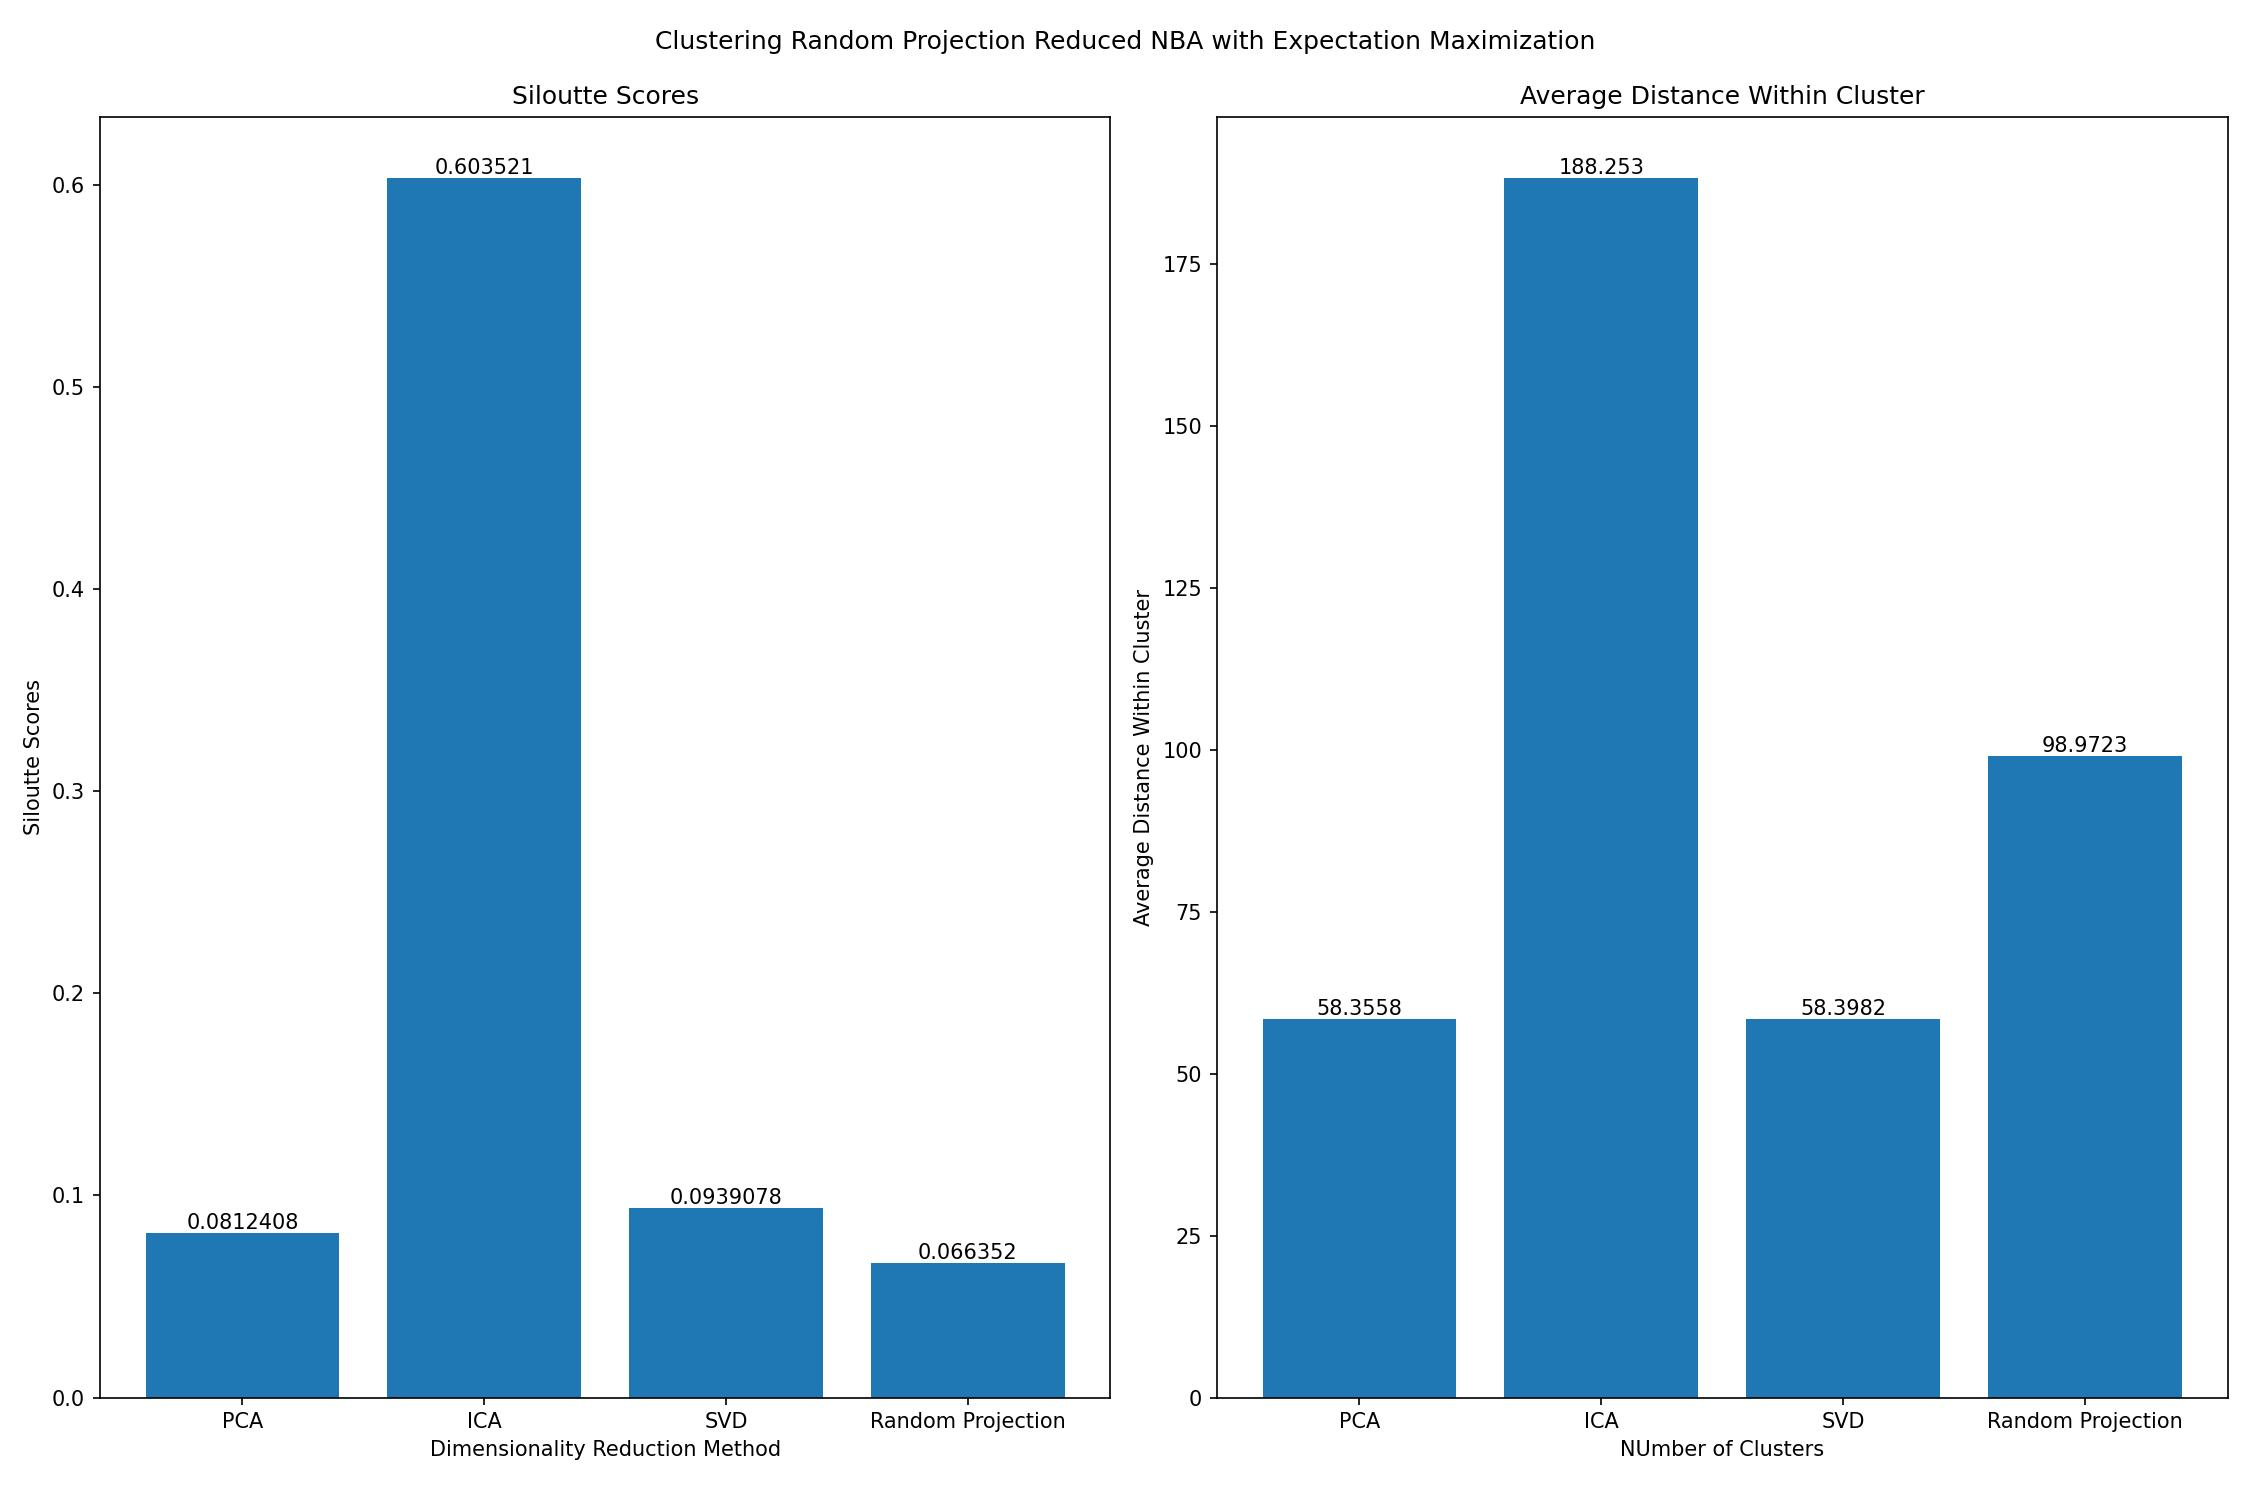
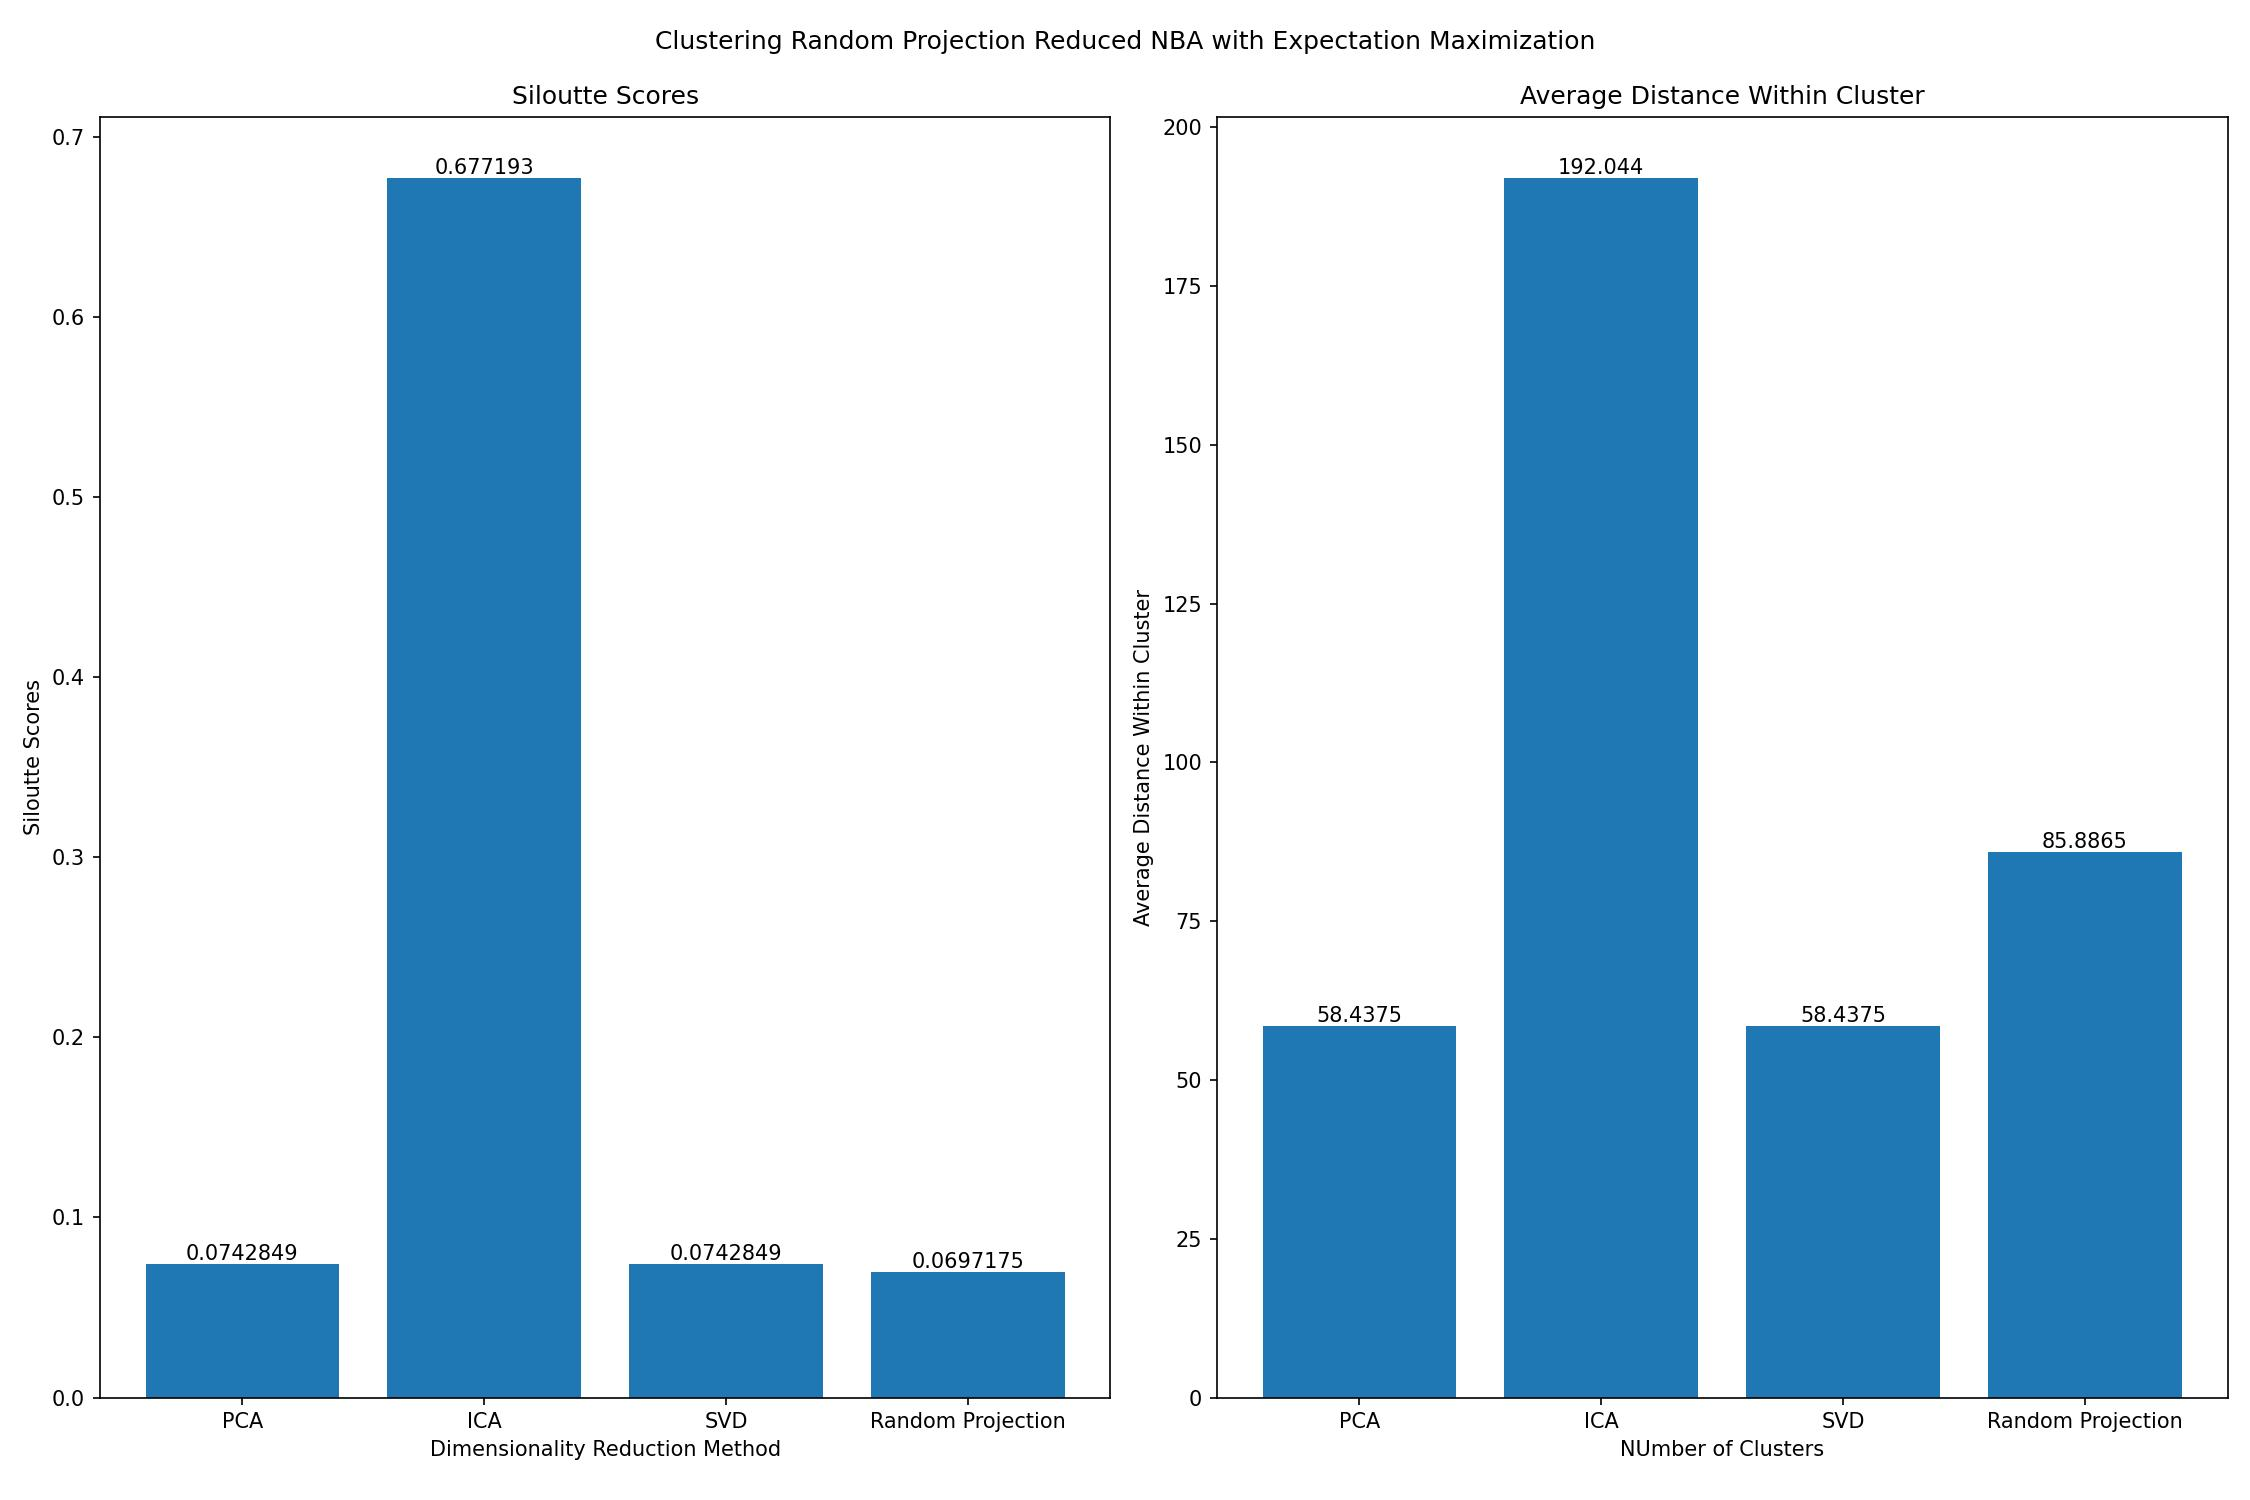
update

diff --git a/unsupervised_learning/src/main.py b/unsupervised_learning/src/main.py
@@ -110,41 +110,48 @@ def all_analysis(dataset_name):
 
     # perform clustering again on the reduced dataset
     cluster_data_map = defaultdict(lambda: defaultdict(lambda: dict))
-    optimal_num_clusters = {"K-means": 8, "Expectation Maximization": 10}
+    optimal_num_clusters = (
+        {"K-means": 5, "Expectation Maximization": 10}
+        if dataset_name == "NBA"
+        else {"K-means": 8, "Expectation Maximization": 10}
+    )
 
     for cluster_model_name in CLUSTERING_MODEL_NAMES:
         metrics_list = []
         for dim_reduction_model_name, reduced_data in reduced_data_map.items():
-            print(
-                f"Clustering {dataset_name} Dataset with {dim_reduction_model_name} Using {cluster_model_name}"
-            )
-            clustered_data, metrics = CLUSTERING_MODEL_MAPPING[cluster_model_name](
-                reduced_data, optimal_num_clusters[cluster_model_name]
-            )
-            cluster_data_map[cluster_model_name][
-                dim_reduction_model_name
-            ] = clustered_data
-            print(
-                f"""
-                Metrics for Clustering {dataset_name} Dataset with {dim_reduction_model_name} Using {cluster_model_name}:
-                {metrics}
-                """
-            )
-            metrics_list.append({"model_name": dim_reduction_model_name, **metrics})
-        dim_reduced_metrics_plot(
-            pd.DataFrame(metrics_list),
-            cluster_model_name,
-            dim_reduction_model_name,
-            dataset_name,
-        )
-        plt.tight_layout(rect=[0, 0.01, 1, 0.99])
-        plt.savefig(
-            f"./reports/figures/{cluster_model_name}_{dataset_name}_metrics.jpg",
-            dpi=150,
-        )
+            try:
+                print(
+                    f"Clustering {dataset_name} Dataset with {dim_reduction_model_name} Using {cluster_model_name}"
+                )
+                clustered_data, metrics = CLUSTERING_MODEL_MAPPING[cluster_model_name](
+                    reduced_data, optimal_num_clusters[cluster_model_name]
+                )
+                cluster_data_map[cluster_model_name][
+                    dim_reduction_model_name
+                ] = clustered_data
+                print(
+                    f"""
+                    Metrics for Clustering {dataset_name} Dataset with {dim_reduction_model_name} Using {cluster_model_name}:
+                    {metrics}
+                    """
+                )
+                metrics_list.append({"model_name": dim_reduction_model_name, **metrics})
+                dim_reduced_metrics_plot(
+                    pd.DataFrame(metrics_list),
+                    cluster_model_name,
+                    dim_reduction_model_name,
+                    dataset_name,
+                )
+                plt.tight_layout(rect=[0, 0.01, 1, 0.99])
+                plt.savefig(
+                    f"./reports/figures/{cluster_model_name}_{dataset_name}_metrics.jpg",
+                    dpi=150,
+                )
+            except Exception:  # pylint: disable=broad-except
+                pass
 
     # run neural network with dimension reduced features on NBA dataset only
-    if dataset_name == "NBA2":
+    if dataset_name == "NBA":
         _, axes = plt.subplots(4, 4, figsize=(20, 20))
         for i, (dim_reduction_model_name, reduced_data) in enumerate(
             reduced_data_map.items()
@@ -177,7 +184,7 @@ def all_analysis(dataset_name):
             for i, (dim_reduction_model_name, reduced_data) in enumerate(
                 reduced_data_map.items()
             ):
-                neural_network = MLPClassifier(hidden_layer_sizes=(32,))
+                neural_network = MLPClassifier(hidden_layer_sizes=(32,), max_iter=5000)
                 cv = ShuffleSplit(n_splits=5, test_size=0.1, random_state=RANDOM_SEED)
                 # plot learning curves cluster on the corresponding axes
                 plot_learning_curve(
@@ -232,5 +239,5 @@ if __name__ == "__main__":
         "NBA": preprocess_nba_players_data,
         "Twitter": preprocess_tweets,
     }
-    # all_analysis("NBA")
+    all_analysis("NBA")
     all_analysis("Twitter")

diff --git a/unsupervised_learning/src/models/clustering.py b/unsupervised_learning/src/models/clustering.py
@@ -1,7 +1,7 @@
 from sklearn import metrics
 from sklearn.cluster import KMeans
 from sklearn.mixture import GaussianMixture
-from src.config.config import NUM_CLUSTERS_LIST
+from src.config.config import NUM_CLUSTERS_LIST, RANDOM_SEED
 
 
 def k_means_clustering_experiment(data):
@@ -12,7 +12,11 @@ def k_means_clustering_experiment(data):
 
     for num_clusters in NUM_CLUSTERS_LIST:
         # fit the k means clustering
-        clf = KMeans(n_clusters=num_clusters, init="k-means++")
+        clf = KMeans(
+            n_clusters=num_clusters,
+            init="k-means++",
+            random_state=RANDOM_SEED,
+        )
         clf.fit(data)
         predicted_label = clf.predict(data)
 
@@ -38,7 +42,10 @@ def expectation_maximization_experiment(data):
     for num_clusters in NUM_CLUSTERS_LIST:
         # fit the gaussian mixture clustering
         clf = GaussianMixture(
-            n_components=num_clusters, covariance_type="spherical", init_params="kmeans"
+            n_components=num_clusters,
+            covariance_type="spherical",
+            init_params="kmeans",
+            random_state=RANDOM_SEED,
         )
         clf.fit(data)
         predicted_label = clf.predict(data)
@@ -61,7 +68,7 @@ def k_means_clustering(data, num_clusters):
     K means clustering and returned the original dataset
     with the clustering label given the number of clusters
     """
-    clf = KMeans(n_clusters=num_clusters, init="k-means++")
+    clf = KMeans(n_clusters=num_clusters, init="k-means++", random_state=RANDOM_SEED)
     clf.fit(data)
     predicted_label = clf.predict(data)
     # get metrics
@@ -81,7 +88,10 @@ def expectation_maximization_clustering(data, num_clusters):
     with the clustering label given the number of clusters
     """
     clf = GaussianMixture(
-        n_components=num_clusters, covariance_type="spherical", init_params="kmeans"
+        n_components=num_clusters,
+        covariance_type="spherical",
+        init_params="kmeans",
+        random_state=RANDOM_SEED,
     )
     clf.fit(data)
     predicted_label = clf.predict(data)

diff --git a/unsupervised_learning/src/models/dimensionality_reduction.py b/unsupervised_learning/src/models/dimensionality_reduction.py
@@ -7,6 +7,7 @@ from scipy.stats import kurtosis
 from sklearn.decomposition import PCA, FastICA, TruncatedSVD
 from sklearn.metrics import mean_squared_error
 from sklearn.random_projection import GaussianRandomProjection
+from src.config.config import RANDOM_SEED
 
 warnings.filterwarnings("ignore")
 
@@ -16,7 +17,7 @@ def reduce_by_pca(data):
     Transform the data with PCA with number of components,
     return the reduced data and  pca object
     """
-    pca = PCA()
+    pca = PCA(random_state=RANDOM_SEED)
     pca_model = pca.fit(data)
     reduced_data = pca_model.transform(data)
     return pd.DataFrame(reduced_data), pca_model.explained_variance_ratio_
@@ -27,7 +28,7 @@ def reduce_by_ica(data):
     Transform the data with ICA given the number of components,
     return the reduced data and the kurtosis for each component
     """
-    ica = FastICA()
+    ica = FastICA(random_state=RANDOM_SEED)
     ica_model = ica.fit(data)
     reduced_data = ica_model.transform(data)
     kurt = kurtosis(reduced_data)
@@ -49,7 +50,9 @@ def reduce_by_random_projection(data):
         else np.arange(5, data.shape[1], 50)
     )
     for num_components in tqdm.tqdm(num_components_list):
-        rp = GaussianRandomProjection(n_components=num_components)
+        rp = GaussianRandomProjection(
+            n_components=num_components, random_state=RANDOM_SEED
+        )
         rp_model = rp.fit(data)
         reduced_data = rp_model.transform(data)
         reduced_data_list.append(pd.DataFrame(reduced_data))
@@ -71,7 +74,7 @@ def reduce_by_svd(data):
     """
     Transform the data with SVD given the number of components
     """
-    svd = TruncatedSVD(n_components=data.shape[1])
+    svd = TruncatedSVD(n_components=data.shape[1], random_state=RANDOM_SEED)
     svd_model = svd.fit(data)
     reduced_data = svd_model.transform(data)
     return pd.DataFrame(reduced_data), svd_model.explained_variance_ratio_

diff --git a/unsupervised_learning/src/config/config.py b/unsupervised_learning/src/config/config.py
@@ -1,6 +1,6 @@
 import numpy as np
 
-RANDOM_SEED = 7
+RANDOM_SEED = 100
 ALL_POSITIONS = ["PG", "SG", "SF", "PF", "C"]
 ALL_TEAMS = [
     "WAS",
@@ -41,7 +41,7 @@ THRESHOLD_MAP = {
     "PCA": 0.85,
     "ICA": 5,
     "SVD": 0.85,
-    "Random Projection": 0.1,
+    "Random Projection": 0.3,
 }
 CLUSTERING_MODEL_NAMES = ["K-means", "Expectation Maximization"]
 DIM_REDUCE_MODEL_NAMES = ["PCA", "ICA", "SVD", "Random Projection"]
